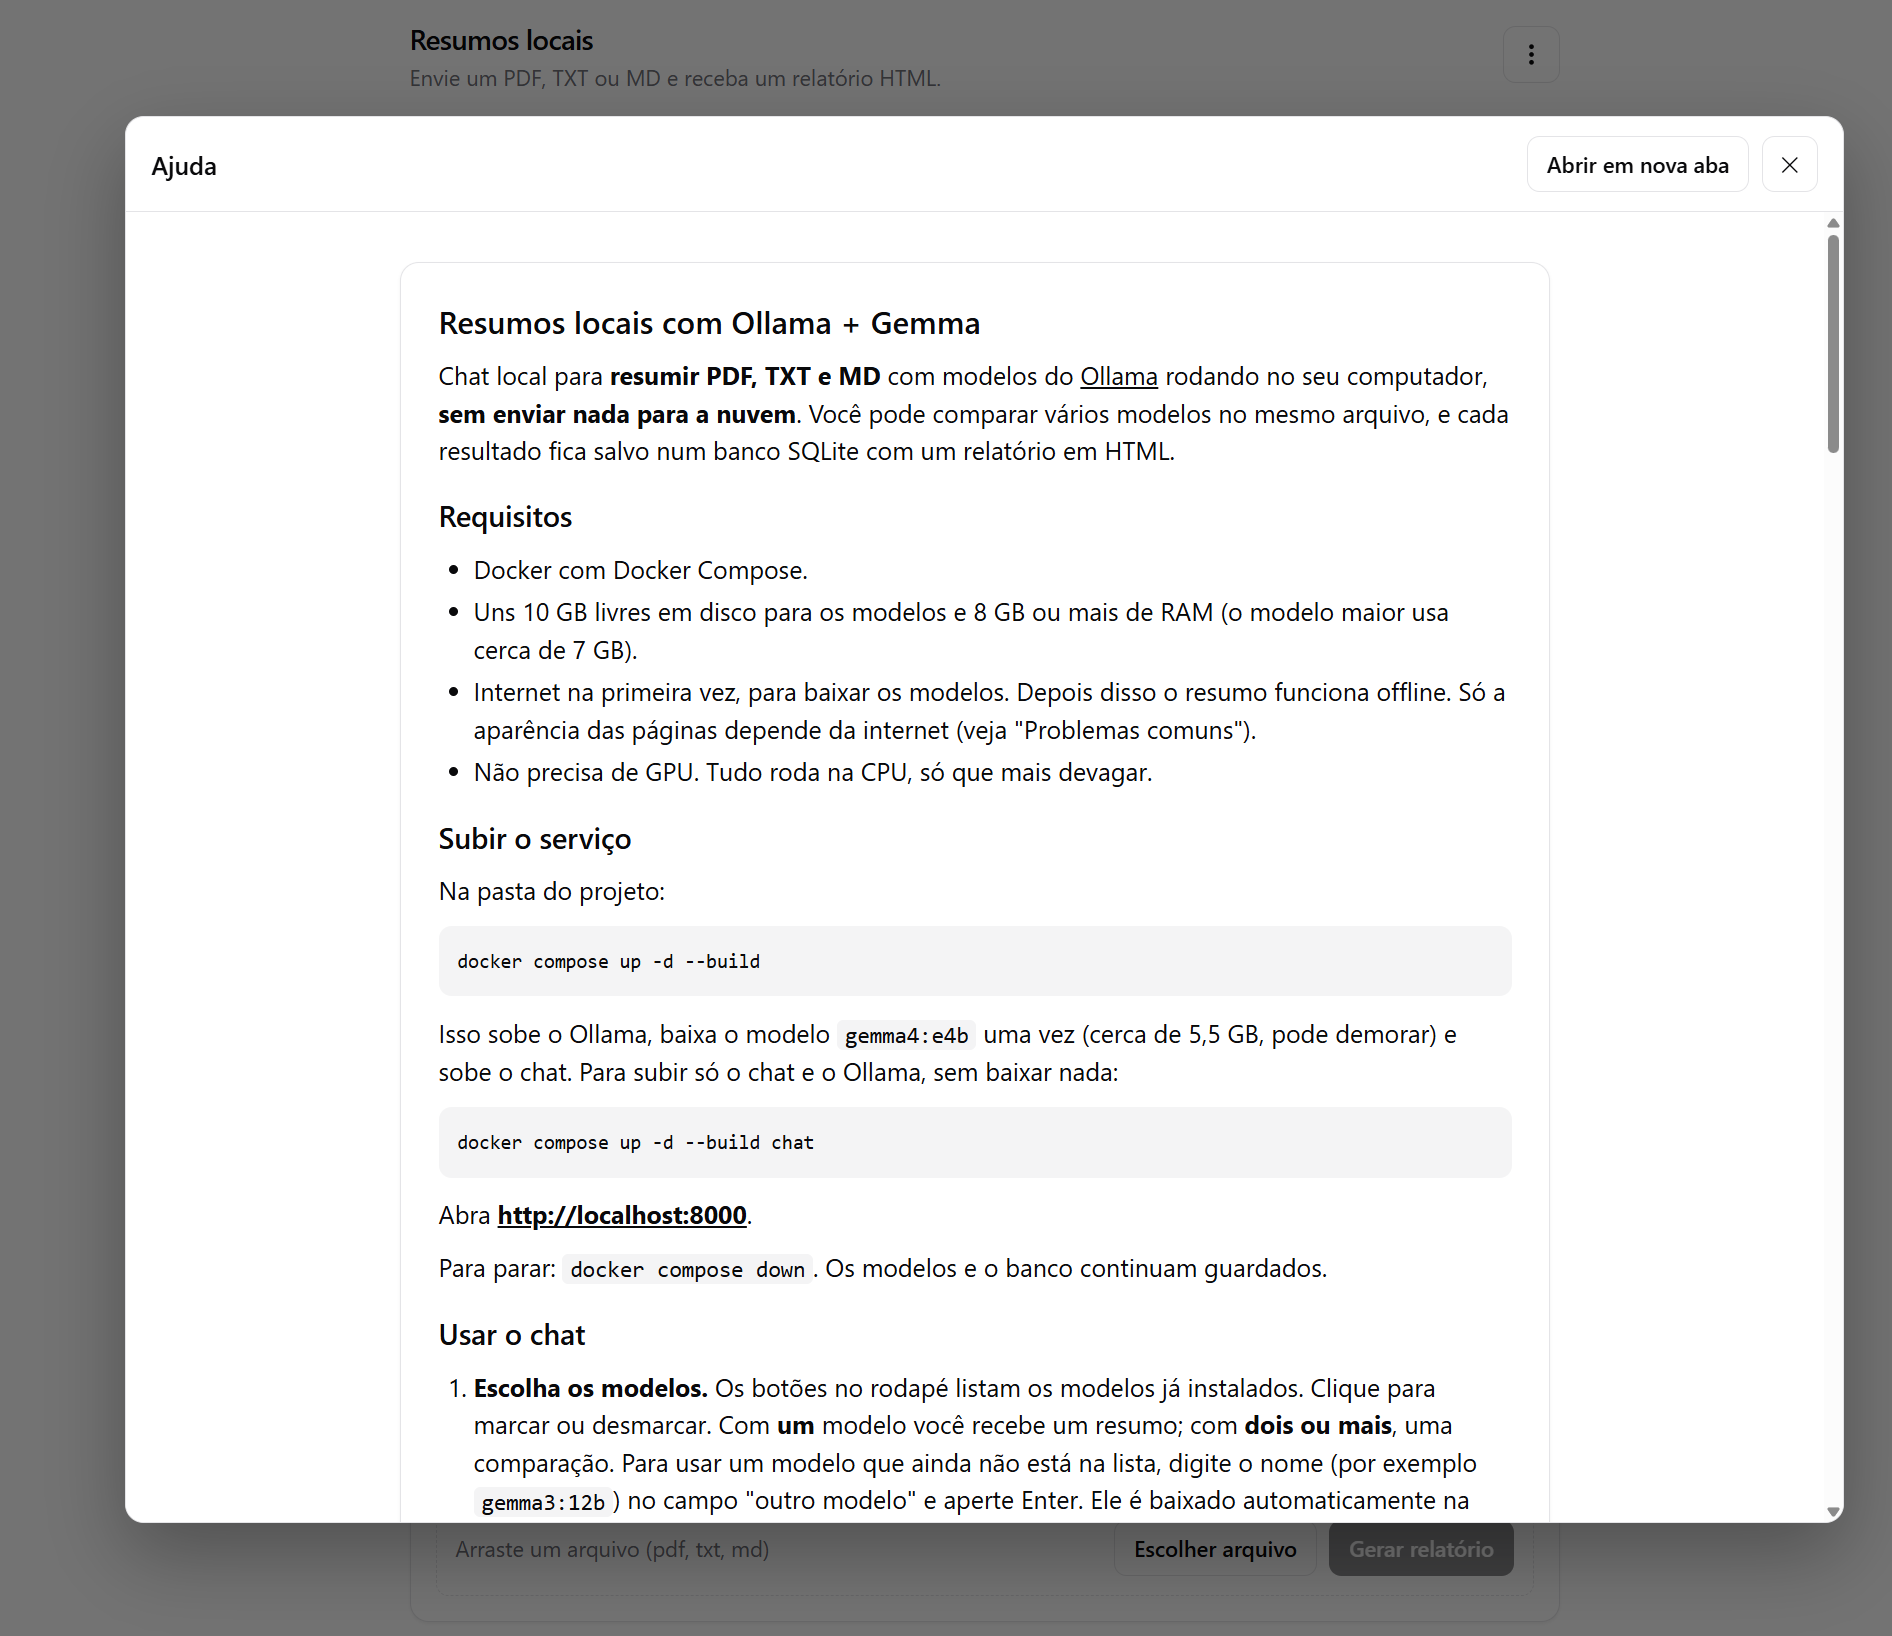
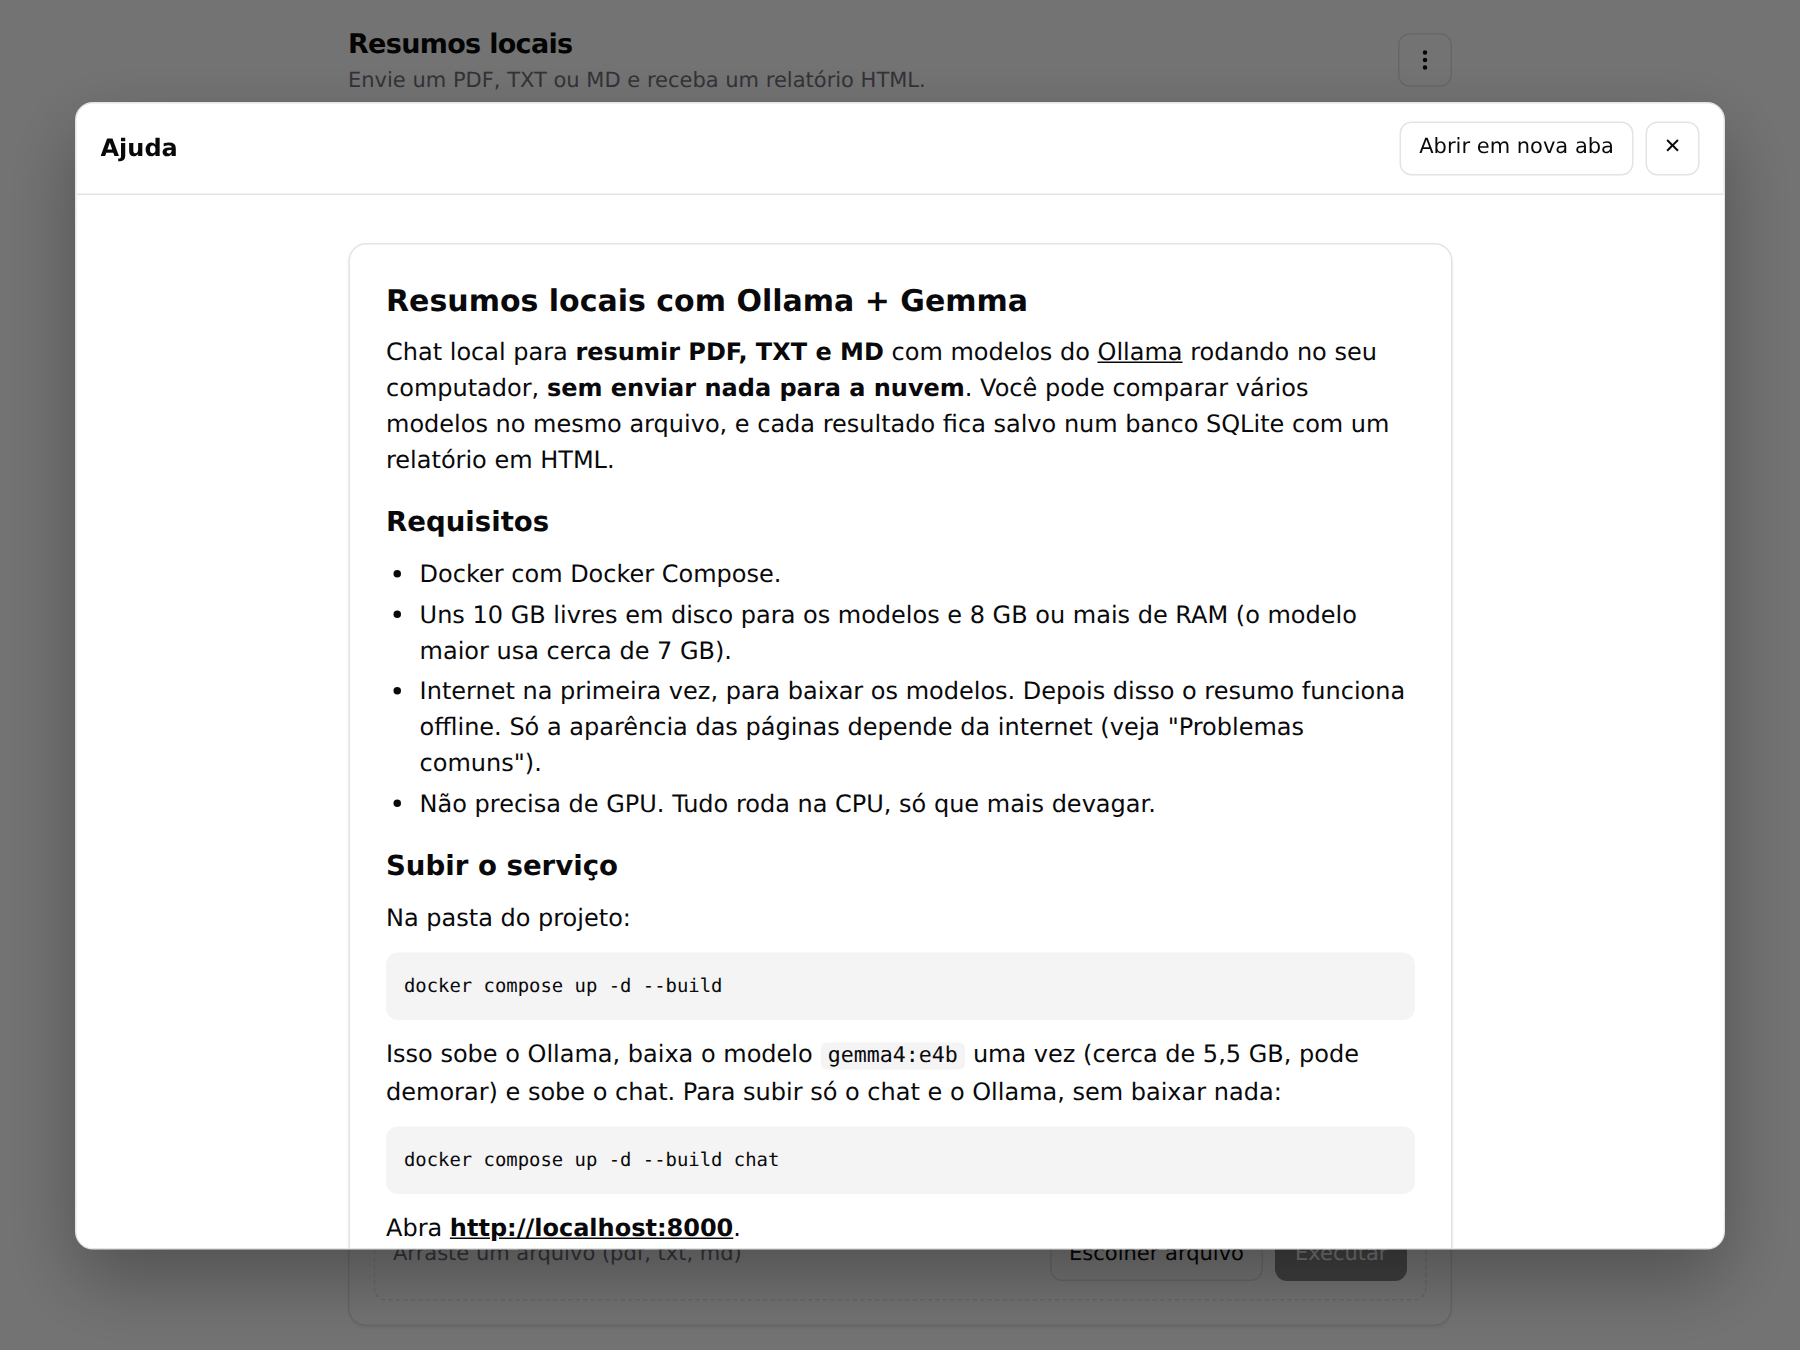
Capturas de tela atualizadas, README revisado e Esc nas janelas internas
Documentação
- assets/: as 8 capturas refeitas com a versão atual da tela e uma nova
  (settings.png, janela de Configurações); legendas ajustadas
- README revisado contra o comportamento atual: lista do status do Ollama
  corrigida, "primeiro uso demora" agora explica a etapa de carga, pill
  "resumo cortado", novos itens em "Problemas comuns" (modelo que não
  aparece, resumo só no final, configurações que não persistem, Ajuda com
  README antigo)
- Guia do Ollama: nota sobre capturas antigas removida e seção de
  Configurações acrescentada

Chat
- A tecla Esc agora fecha as janelas de histórico, relatório, modelos e
  ajuda também quando o foco está dentro do conteúdo (iframe); antes só
  funcionava com o foco fora dele

Changed region(s): [[0.0311, 0.0, 0.9956, 0.9644]]

diff --git a/app/static/head.html b/app/static/head.html
@@ -27,6 +27,12 @@
 <script>
   if (matchMedia('(prefers-color-scheme: dark)').matches) document.documentElement.classList.add('dark');
 </script>
+<script>
+  // Páginas abertas no modal do chat (iframe): o Esc dentro delas não chega ao <dialog> do pai, então repassamos.
+  document.addEventListener('keydown', e => {
+    if (e.key === 'Escape' && window.parent !== window) { try { window.parent.document.getElementById('modal').close(); } catch {} }
+  });
+</script>
 <style>
   /* Tokens do shadcn/ui (tema zinc) */
   :root {

diff --git a/README.md b/README.md
@@ -1,6 +1,6 @@
 # Resumos locais com Ollama + Gemma
 
-Chat local para **resumir PDF, TXT e MD** com modelos do [Ollama](https://ollama.com) rodando no seu computador, **sem enviar nada para a nuvem**. Você pode comparar vários modelos no mesmo arquivo, e cada resultado fica salvo num banco SQLite com um relatório em HTML.
+Chat local para **resumir PDF, TXT e MD** com modelos do [Ollama](https://ollama.com) rodando no seu computador, **sem enviar nada para a nuvem**. Você pode comparar vários modelos no mesmo arquivo, editar o prompt, escolher como o texto aparece no card, e cada resultado fica salvo num banco SQLite com um relatório em HTML.
 
 ## Requisitos
 
@@ -49,7 +49,7 @@ O chat avisa quando o arquivo não pode ser usado: tipo errado, PDF escaneado (s
 
 ## Menu, configurações, histórico e ajuda
 
-O botão de **três pontinhos** (⋮), no topo do chat, abre um menu com **Histórico**, **Configurações**, **Ajuda** e o **status do Ollama**. Histórico e Ajuda abrem numa janela (modal) sobre o chat. O status mostra uma bolinha **verde** (online, com a versão do Ollama) ou **vermelha** (offline).
+O botão de **três pontinhos** (⋮), no topo do chat, abre um menu com **Histórico**, **Configurações**, **Ajuda** e o **status do Ollama**. Os três primeiros abrem numa janela (modal) sobre o chat. O status mostra uma bolinha **verde** (online, com a versão do Ollama) ou **vermelha** (offline).
 
 O status se mantém **sempre atualizado** com o [htmx](https://htmx.org): a página consulta o Ollama ao carregar, **a cada 10 segundos** (enquanto a aba está visível), ao voltar para a aba e ao abrir o menu. Se o próprio chat sair do ar, a bolinha fica vermelha com "Servidor do chat inacessível".
 
@@ -77,23 +77,23 @@ Quando o modelo conclui, o card mostra sempre o texto inteiro, qualquer que seja
 **Clicar no item de status:**
 
 - com o Ollama **online**, abre um modal com os **modelos instalados**: parâmetros, quantização, família, contexto máximo, capacidades (por exemplo `completion`, `vision`, `thinking`), tamanho em disco, data de atualização e se o modelo está **na memória** agora (com o tamanho e a hora em que será descarregado). No topo há a versão do Ollama, o total de modelos, o espaço em disco ocupado e quantos estão na memória;
-- com o Ollama **offline**, o clique tenta consultar de novo. Para fechar, use o ✕, a tecla `Esc` ou clique fora da janela. O botão "Abrir em nova aba" abre a mesma página fora do chat.
+- com o Ollama **offline**, o clique tenta consultar de novo.
+
+**Fechar as janelas.** Em todas, use o ✕, a tecla `Esc` ou clique fora. Histórico, relatório, modelos instalados e ajuda também têm o botão "Abrir em nova aba", que abre a mesma página fora do chat.
 
 O **Histórico** lista todos os resultados, do mais recente para o mais antigo: número, data, arquivo, tipo, se foi resumo ou comparação e os modelos usados. **Clique em uma linha** para abrir o relatório daquele registro dentro da mesma janela, com o botão "← Voltar" para retornar à lista.
 
 ## Telas
 
-> As capturas de **análise em andamento** e do **menu** são de uma versão anterior da tela: nelas a barra de progresso era única, os pills de tempo apareciam todos no fim, o resumo não era recolhível, o botão principal se chamava "Gerar relatório", havia um campo "outro modelo" para digitar modelos, o menu não tinha "Configurações" e o status do Ollama mostrava também a quantidade de modelos. Hoje a barra tem três trechos, os pills aparecem a cada etapa e o status mostra só a versão.
-
-**Tela inicial:** escolha os modelos, anexe o arquivo e gere o relatório.
+**Tela inicial:** escolha os modelos, anexe o arquivo e clique em Executar.
 
 ![Tela inicial do chat](assets/home.png)
 
-**Análise em andamento:** o primeiro modelo concluiu e o segundo está carregando e lendo o texto, cada um com sua barra de progresso.
+**Análise em andamento:** o primeiro modelo concluiu (selo verde, pills de tempo, resumo recolhível e ícone de copiar) e o segundo está gerando o resultado. O texto aparece ao vivo, e o rodapé do cartão mostra a etapa atual, o cronômetro e a barra de três trechos (carga, leitura e geração).
 
 ![Comparação em andamento](assets/comparisson-first-model.png)
 
-**Análise concluída:** tempos de carga, leitura e geração por modelo, e os botões "Abrir relatório" e "Nova análise".
+**Análise concluída:** os pills de carga, leitura, geração e tokens por segundo de cada modelo, o texto dos resumos justificado e os botões "Abrir relatório" e "Nova análise".
 
 ![Comparação concluída](assets/comparisson-second-model.png)
 
@@ -101,9 +101,13 @@ O **Histórico** lista todos os resultados, do mais recente para o mais antigo: 
 
 ![Relatório com a matriz de comparação](assets/comparisson-report.png)
 
-**Menu (⋮):** histórico, ajuda e o status do Ollama.
+**Menu (⋮):** histórico, configurações, ajuda e o status do Ollama.
 
-![Menu com Histórico, Ajuda e o status do Ollama](assets/menu.png)
+![Menu com Histórico, Configurações, Ajuda e o status do Ollama](assets/menu.png)
+
+**Configurações:** o prompt (o padrão aparece em cinza quando o campo está em branco) e a apresentação da resposta.
+
+![Janela de Configurações](assets/settings.png)
 
 **Histórico:** todas as execuções; clique em uma linha para abrir o relatório.
 
@@ -151,7 +155,7 @@ Os tempos dependem da sua máquina. Em um notebook sem GPU, um PDF de uma págin
 - **Um modelo por vez na memória.** O serviço `ollama` usa `OLLAMA_MAX_LOADED_MODELS=1`: ao carregar o modelo seguinte, o Ollama descarrega o anterior. Com vários modelos carregados ao mesmo tempo (cada um fica 10 minutos), a RAM acaba, o cache de disco encolhe e a leitura fica mais lenta; no teste, o `gemma4:e4b` leu a 26 tok/s com três modelos carregados e a 42 tok/s com só ele. O custo é que repetir uma comparação recarrega o primeiro modelo.
 - **Resultado reproduzível.** Os modelos rodam com `temperature 0` e o modo de raciocínio desligado (`think: false`).
 - **Contexto ajustado ao texto.** O chat calcula o tamanho de contexto de que o arquivo precisa. Se o texto for grande demais (acima de 16384 tokens), o relatório traz um **aviso** de que o modelo viu só parte dele.
-- **Resumo cortado.** O resumo tem teto de 1024 tokens. Se o modelo chegar ao limite, a linha aparece marcada como "cortado".
+- **Resumo cortado.** O resumo tem teto de 1024 tokens. Se o modelo chegar ao limite, o cartão mostra o pill "resumo cortado" e a linha do relatório é marcada com "cortado em 1024 tokens".
 - **Execução cancelada não é salva.** Se você fechar a aba no meio de uma geração, o job para e nada é gravado.
 - **Prompt.** O padrão pede para resumir em português, sem saudação nem comentário final. Você pode trocá-lo em **Configurações** (veja acima); cada execução usa o prompt que estava no campo quando você clicou em **Executar**.
 
@@ -191,7 +195,11 @@ Para usar GPU NVIDIA, instale o NVIDIA Container Toolkit e descomente o bloco `d
 ## Problemas comuns
 
 - **"Ollama indisponível".** Veja `docker compose ps` e `docker compose logs ollama`. O serviço `ollama` precisa estar `healthy`.
-- **O primeiro uso de um modelo demora.** Ele está sendo baixado (a barra de progresso aparece no cartão). Se o download travar, rode `docker exec ollama ollama pull <modelo>`; ele retoma de onde parou.
+- **O primeiro uso de um modelo demora.** É a etapa "Carregando modelo": o Ollama coloca o modelo na memória, e isso leva de poucos segundos a algumas dezenas de segundos nos modelos grandes. Depois ele fica 10 minutos carregado, mas, como só um modelo fica na memória por vez, trocar de modelo recarrega.
+- **Quero outro modelo, mas ele não aparece.** O chat só lista modelos instalados. Rode `docker exec ollama ollama pull <modelo>` e recarregue a página. Se o download travar, rode o mesmo comando de novo: ele retoma de onde parou.
+- **O resumo só aparece no final (ou aos pedaços).** Confira **Configurações → Apresentação da resposta**: em "Texto Completo" o texto só entra quando a geração termina, e em "Palavras" e "Parágrafos" ele entra por partes.
+- **As configurações sumiram.** É o esperado: prompt e apresentação não são salvos e voltam ao padrão quando a página é recarregada.
+- **A Ajuda mostra um README antigo.** O arquivo é montado no container; se o editor o substituiu por um novo, reinicie com `docker compose restart chat`.
 - **"PDF sem texto extraível".** O PDF é uma imagem escaneada. É preciso passar por OCR antes (por exemplo com `ocrmypdf`).
 - **Muito lento.** Sem GPU o modelo roda na CPU. Use um modelo menor, feche outros programas e confira a memória livre. No WSL2, a memória é limitada pelo `.wslconfig`.
 - **Página sem estilo ou resumo sem formatação.** O visual vem de bibliotecas carregadas da internet (Tailwind, htmx e renderizador de Markdown). Sem rede o conteúdo continua legível, só mais simples, e o status do Ollama mostra "Status indisponível (htmx não carregou)".

diff --git a/references/ollama-gemma4-pdf.md b/references/ollama-gemma4-pdf.md
@@ -178,7 +178,6 @@ Na tela inicial, escolha os **modelos** (botões de baixo), anexe o arquivo (PDF
 
 Cada modelo roda **um de cada vez** e tem um cartão com o resumo sendo escrito ao vivo. O rodapé do cartão mostra a **etapa atual** (*Carregando modelo*, *Executando leitura*, *Gerando resultados*), um cronômetro e uma barra dividida em três trechos, um para cada etapa. Os **pills de tempo** (carga, leitura, geração e tokens por segundo) aparecem conforme cada etapa termina, e o selo do cartão vira **concluído** (verde) no fim. Na captura acima, o primeiro modelo já concluiu e o segundo está nas etapas iniciais.
 
-> As capturas desta seção foram feitas com uma versão anterior da tela: os pills apareciam todos de uma vez no fim da análise, o resumo não era recolhível e o botão principal se chamava *Gerar relatório*.
 
 ![Comparação concluída](../assets/comparisson-second-model.png)
 
@@ -194,7 +193,7 @@ O botão de três pontinhos (⋮) abre o menu:
 
 ![Menu com Histórico, Ajuda e o status do Ollama](../assets/menu.png)
 
-- **Histórico** e **Ajuda** abrem numa janela (modal) sobre o chat.
+- **Histórico**, **Configurações** e **Ajuda** abrem numa janela (modal) sobre o chat.
 - O item de baixo mostra o **status do Ollama** (bolinha verde = online, vermelha = offline) e se atualiza sozinho a cada 10 segundos.
 
 ![Histórico de resultados](../assets/history.png)
@@ -204,6 +203,10 @@ O **Histórico** lista todas as execuções, da mais recente para a mais antiga.
 ![Modelos instalados](../assets/models.png)
 
 Clicar no status **online** abre os **modelos instalados**: parâmetros, quantização, contexto máximo, capacidades (`completion`, `vision`, `thinking`...), tamanho em disco e quais estão **na memória** agora. Dá para ver, por exemplo, que o `gemma4:e4b` tem 7,5 bilhões de parâmetros e ocupa 6,1 GB, enquanto o `gemma3:1b` ocupa 769 MB.
+
+![Janela de Configurações](../assets/settings.png)
+
+Em **Configurações** você edita o **prompt**, a instrução enviada ao modelo antes do texto do arquivo (em branco, vale o padrão, mostrado em cinza). A mudança vale na próxima execução e não é salva. Há também a **apresentação da resposta**, que define como o resumo entra no card enquanto é gerado: por tokens, palavras, parágrafos ou só o texto completo no fim.
 
 ![Ajuda dentro do chat](../assets/help.png)
 
